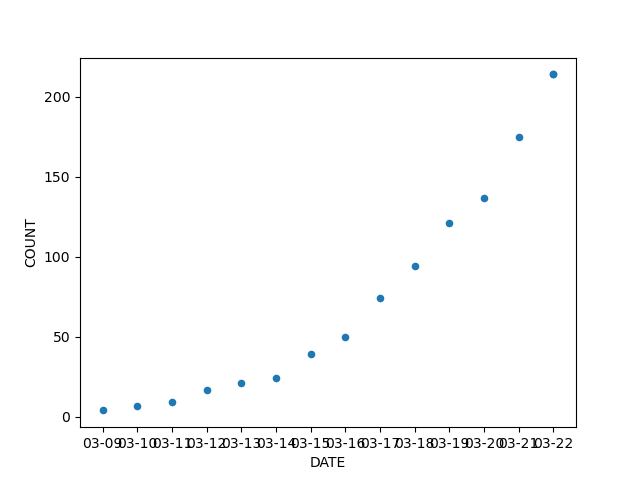
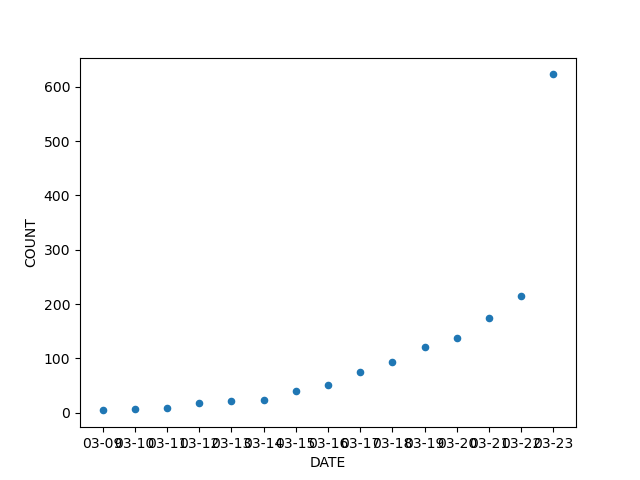
03/23

diff --git a/covid-19/README.md b/covid-19/README.md
@@ -9,3 +9,4 @@ Collection of cases from the [Quebec government site](https://www.quebec.ca/sant
 
 ## Note
 03/22 : The number of deaths related to COVID-19 is lower than what was announced on March 21, 2020. The test of one of these people was negative.
+03/23 : The significant increase in confirmed cases is explained by the fact that on March 22, 2020, cases tested positive by hospital laboratories are now considered confirmed. They no longer need validation by the Laboratoire de santé publique du Québec (LSPQ).
